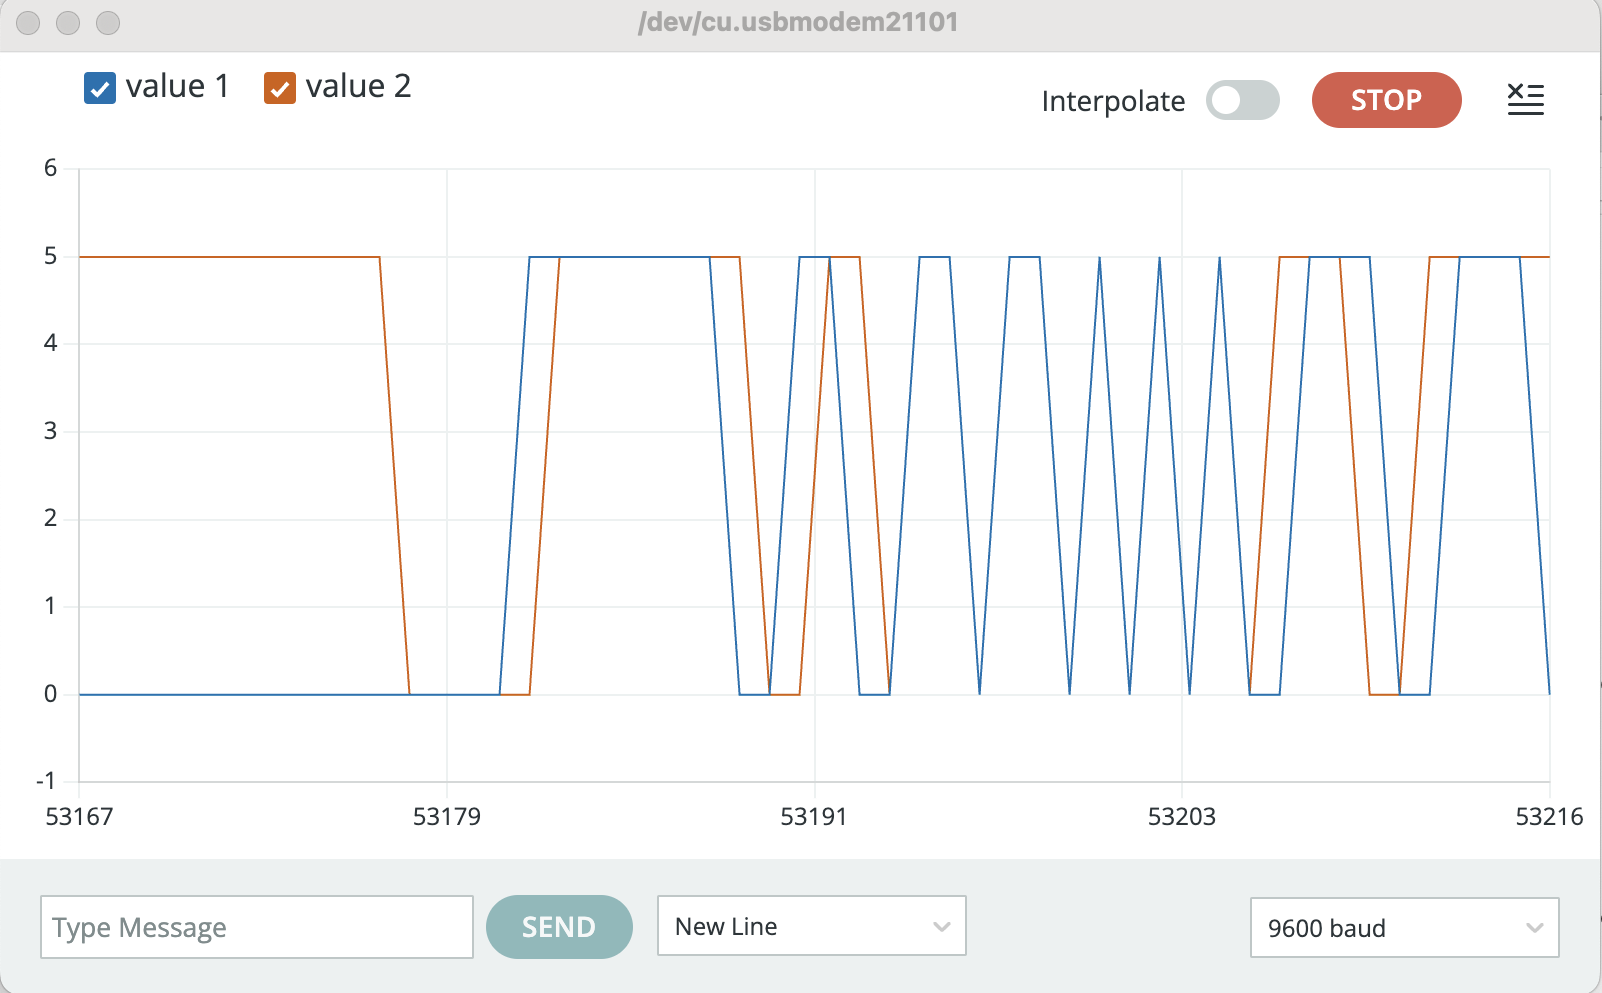
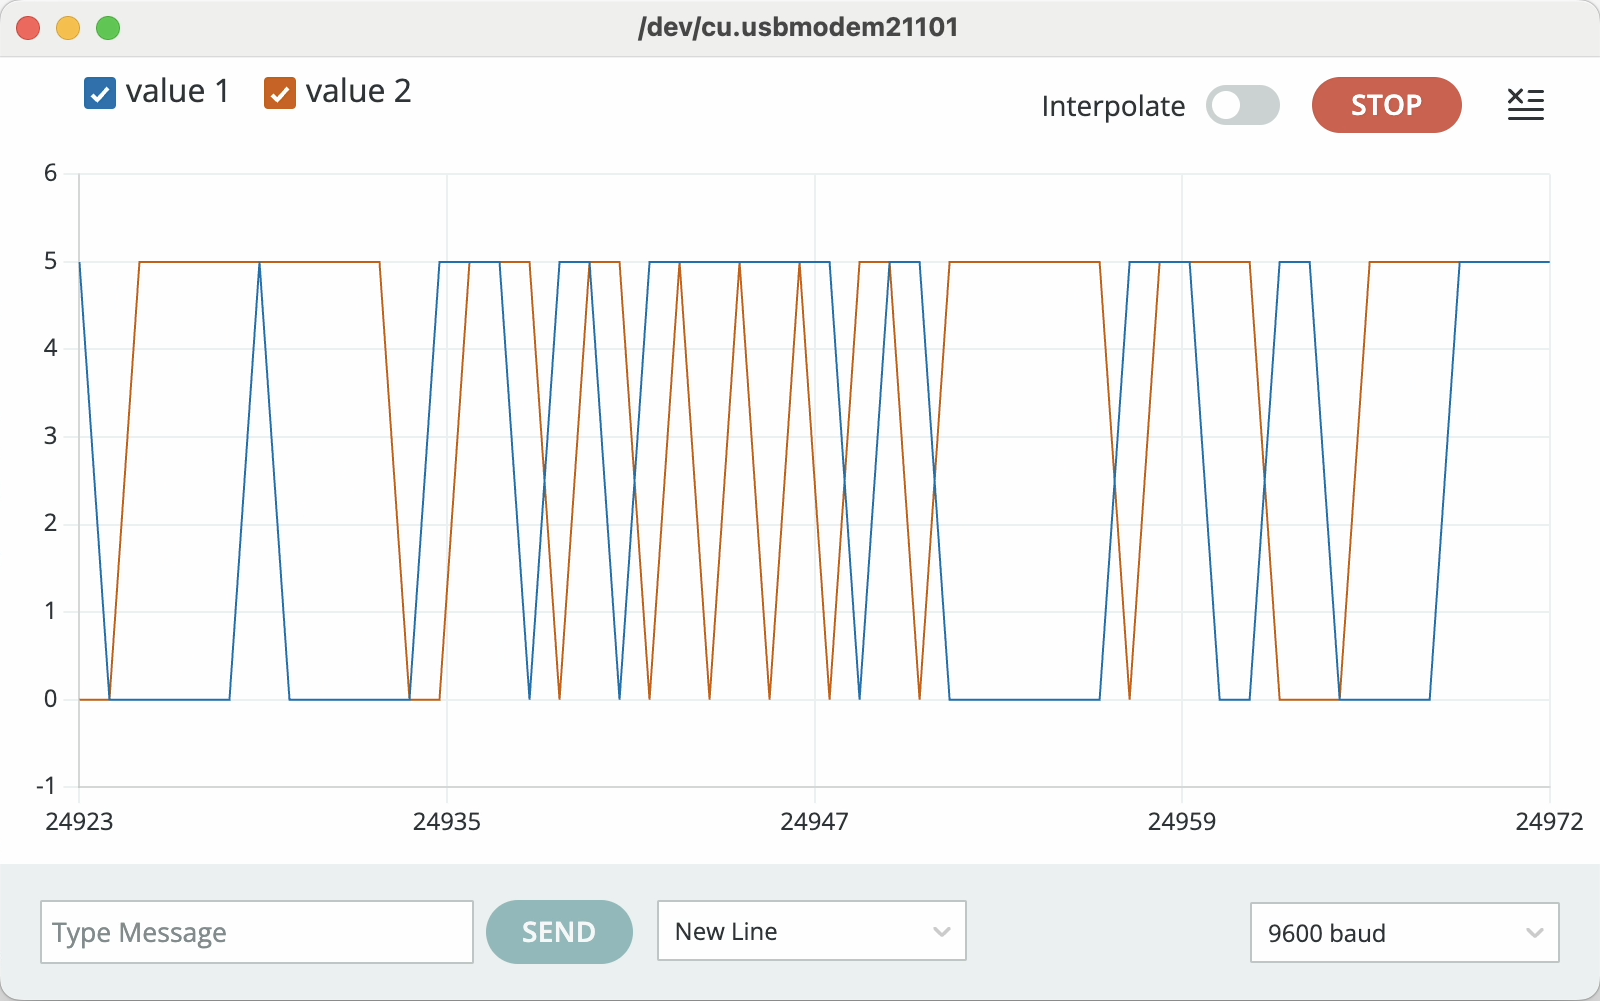
add the robot's rviz video

diff --git a/_posts/2025-04-08-SecurityRobot-MotorEncoder.md b/_posts/2025-04-08-SecurityRobot-MotorEncoder.md
@@ -1,6 +1,6 @@
 ---
 layout: post
-title: "Enhance DC Motors with Motor Encoders"
+title: "Enhance DC Motors using Motor Encoders"
 date: 2025-04-08 10:27:08 -0600
 categories: Security_Robot
 ---
@@ -8,13 +8,17 @@ categories: Security_Robot
 [RPLidar in ROS 2 Docker on Raspberry Pi]: {% link _posts/2025-02-08-SecurityRobot-RPLidar.md %}
 [ROS 2 Control, Robot Control the Right Way]: {% link _posts/2025-02-22-SecurityRobot-Ros2_control.md %}
 
-In the ROS (Robot Operating System) ecosystem, a motor encoder plays a crucial role in enabling feedback control and odometry estimation for mobile robots. In this article, I will demonstrate how to upgrade standard DC motors with motor encoders. 
+In the ROS (Robot Operating System) ecosystem, a motor encoder plays a crucial role in enabling feedback control and odometry estimation for mobile robots. I will show you how to enhance standard DC motors using motor encoders.
+
+<iframe width="800" height="468"
+src="https://www.youtube.com/embed/NX-1zldg81s?autoplay=1&mute=0">
+</iframe>
 
 ## What is a Motor Encoder
 
 A motor encoder is a sensor attached to a motor shaft that measures the rotation of the shaft. It converts mechanical motion into digital signals that a controller can interpret to manage the motor's speed. 
 
-Recall from my [ROS 2 Control, Robot Control the Right Way] blog that I mentioned using motor encoders and ros2_control for a closed-loop robot system. In the following component diagram, the motor encoder contributes to those circled in red. 
+Recall from my blog "[ROS 2 Control, Robot Control the Right Way]" that I briefly touched on using motor encoders and ros2_control for a closed-loop robot system. In the following component diagram, the motor encoder contributes to the elements circled in red.
 
 <a href="/assets/motor_encoder/ros2_control.drawio.png" target="_blank">
   <img src="/assets/motor_encoder/ros2_control.drawio.png" />
@@ -23,7 +27,7 @@ Recall from my [ROS 2 Control, Robot Control the Right Way] blog that I mentione
 ### The Purpose of Motor Encoder in ROS
 #### Odometry
 
-In robotics, odometry (or odom for short) refers to the method of estimating a robot’s position and orientation over time based on  the sensor data from wheel encoders. In ROS, odometry is published as messages on the /odom topic. Specifically, encoders are used to track how far each wheel has turned, and the ROS nodes utilize this data to estimate:
+In robotics, odometry (or odom for short) refers to the method of estimating a robot’s position and orientation over time based on sensor data from wheel encoders. In ROS, odometry is published as messages on the /odom topic. Specifically, encoders track how far each wheel has turned, and the ROS nodes utilize this data to estimate:
 
 * Distance traveled
 * Robot’s pose (position and orientation)
@@ -39,14 +43,14 @@ The encoder data is part of the closed-loop system that adjusts motor commands i
 
 #### Joint State Publishing
 
-The readings from the encoders aid in reporting the position, angle, and velocity of the left and right wheel joints through the /joint_states topic, enabling users to visualize the robot in tools such as RViz. This is what my robot looks like in RViz. 
+The readings from the encoders assist in reporting the position, angle, and velocity of the left and right wheel joints through the /joint_states topic, allowing users to visualize the robot in tools like RViz. This is how my robot appears in RViz.
 
 <a href="/assets/motor_encoder/rviz.png" target="_blank">
   <img src="/assets/motor_encoder/rviz.png" />
 </a>
 
 ## Upgrade DC Motors using Motor Encoders
-I have a few [OSEPP DC motors](https://osepp.com/accessories/motors/143-ls-00041-high-torque-electric-motor-6v) that I used for various DIY robotic projects. They are high-quality motors that use durable materials, providing high torque and a long shaft. They work well with my robot's mechanical parts. 
+I have several [OSEPP DC motors](https://osepp.com/accessories/motors/143-ls-00041-high-torque-electric-motor-6v) that I used for different DIY robotics projects. These motors are high-quality, made from durable materials, and they provide high torque and a long motor shaft. They work well with the mechanical components of my robot.
 
 <a href="/assets/IMG_2910.jpeg" target="_blank">
   <img src="/assets/IMG_2910.jpeg" width="350" />
@@ -55,18 +59,18 @@ I have a few [OSEPP DC motors](https://osepp.com/accessories/motors/143-ls-00041
   <img src="/assets/motor_encoder/IMG_2990.jpeg" width="350" />
 </a>
 
-I considered using a new pair of DC motors that have built-in encoders. This is supposed to simplify the setup. However, the ones I found on Amazon don't have a long enough shaft to work with my robotic parts. Additionally, their build quality is not ideal. 
+I considered using a new pair of DC motors with built-in encoders to simplify the setup. However, the ones I found on Amazon do not have a long enough motor shaft to work with my robotic parts. Additionally, their build quality is not ideal.
 
 <a href="/assets/motor_encoder/IMG_3065.jpeg" target="_blank">
   <img src="/assets/motor_encoder/IMG_3065.jpeg" width="600" />
 </a>
 
-After some consideration, I decided to reuse my existing DC motors and enhance it with the [OSEPP Motor Encoder](https://osepp.com/accessories/motors/114-motor-encoder). The motor encoder comes with a datasheet and is thoroughly documented in the [Assembly Instruction](https://osepp.com/downloads/pdf/Encoder%20Assembly.pdf). Additionally, I appreciate the build quality of OSEPP products.
+After careful consideration, I chose to reuse my existing DC motors and enhance them with the [OSEPP Motor Encoder](https://osepp.com/accessories/motors/114-motor-encoder). This motor encoder comes with a datasheet and detailed [assembly instruction](https://osepp.com/downloads/pdf/Encoder%20Assembly.pdf). Furthermore, I appreciate the build quality of OSEPP products.
 
 ### Quadrature Encoders
-The OSEPP motor encoder is a quadrature encoder, which is a type of rotary encoder. It provides two output signals, Channel A and Channel B, that are 90° out of phase. This allows the system to determine:
+The OSEPP motor encoder is a quadrature encoder, a type of rotary encoder. It provides two output signals, Channel A and Channel B, that are 90° out of phase. This allows the system to determine:
 1.	Speed (the rate at which the motor is rotating).
-2.	Direction (whether it is rotating clockwise or counterclockwise).
+2.	Direction (If A leads B → clockwise. If B leads A → counterclockwise).
 
 <a href="/assets/motor_encoder/Assembly_Guide_Magnet.jpeg" target="_blank">
   <img src="/assets/motor_encoder/Assembly_Guide_Magnet.jpeg" width="350" />
@@ -76,9 +80,9 @@ The OSEPP motor encoder is a quadrature encoder, which is a type of rotary encod
 </a>
 
 ### Test the Encoder Installation
-After following the assembly instructions, I installed the encoder mount next to the motor's magnet. I wired the encoders to the Arduino, and now it is time to test the encoders' readings. 
+After following the assembly instructions, I installed the encoder mount next to the motor's magnet. I wired the encoders to the Arduino, and now it's time to test the encoders' readings. 
 
-I used the following Arduino program to check the readings, kudos to [Curio Res](https://curiores.com/positioncontrol), where I downloaded the code.
+I used the following Arduino program to check the readings.
 
 ```
 #define ENCA A4 // Yellow 2, A4
@@ -100,7 +104,7 @@ void loop() {
 }
 ```
 
-If everything is installed and wired correctly, we should see "value 1" and "value 2" interlacing in the Serial Plotter when I manually rotate the wheel. 
+If everything is installed and wired correctly, we should see "value A" and "value B" interlacing in the Serial Plotter when I manually rotate the wheel. 
 
 <a href="/assets/motor_encoder/reading.png" target="_blank">
   <img src="/assets/motor_encoder/reading.png" width="600" />
@@ -108,14 +112,14 @@ If everything is installed and wired correctly, we should see "value 1" and "val
 
 If the plot appears as a flat line or shows only one value oscillating while rotating the wheel, the issue may be related to the wire connection or the positioning of the encoder. 
 
-In my case, the issue was that the encoder mount was too far from the magnet. Additionally, the two channels were angled relative to the magnet. The A3144 sensor’s Channels A and B must be close to and parallel to the magnet’s side to detect the magnetic field while the motor shaft spins. Here is a picture of a properly installed motor encoder mount.
+In my case, the problem was that the encoder mount was too far from the magnet. Additionally, the two channels were angled relative to the magnet. The A3144 sensor’s Channels A and B must be close to and parallel to the magnet’s side to detect the magnetic field while the motor shaft spins. Here is a picture of a properly installed motor encoder mount.
 
 <a href="/assets/motor_encoder/IMG_3068.jpeg" target="_blank">
   <img src="/assets/motor_encoder/IMG_3068.jpeg" width="600" />
 </a>
 
 ### Encoder Count Per Revolution
-To use the encoder in ROS2 Control, an important parameter is enc_counts_per_rev. This refers to the encoder counts generated for one full revolution of the wheel or motor shaft. 
+To use the encoder in ROS2 Control, an important parameter is enc_counts_per_rev, which refers to the encoder counts generated for one full revolution of the wheel or motor shaft. 
 
 This parameter is defined in "ros2_control.xacro" and is used in the "read" and "write" functions of the hardware interface "DiffDriveArduinoHardware" to calculate the velocity command sent to the motor, as well as to compute the robot's current pose and velocity.  
 
@@ -134,7 +138,7 @@ Here is the "ros2_control.xacro":
 
 #### Compute the enc_counts_per_rev
 
-To determine the enc_counts_per_rev, I wrote an Arduino program that outputs the count after I manually rotate the motor shaft for one full revolution.  I perform this rotation several times and calculate the average count, which provides the "enc_counts_per_rev" of the motor.  
+To determine the enc_counts_per_rev, I wrote an Arduino program that outputs the count after I manually rotate the motor shaft for one full revolution.  I perform this rotation several times and calculate the average count, which gives me the enc_counts_per_rev of the motor.  
 
 ```
 #define ENC_A 2  // Encoder Channel A (Digital Pin 2)
@@ -181,6 +185,18 @@ void loop() {
 }
 ```
 
-## Show Time
+## Let robot dance in RViz
+As mentioned earlier, one application of motor encoders is to help users visualize the robot using tools like RViz. Therefore, I created this robot dance clip. Cheers! :D
 
-To be continued ...
+```
+# start the robot on Raspberry Pi
+ros2 launch my_bot robot.launch.py
+
+# view the robot in rviz on the linux dev machine
+rviz2 -d ~/dev/dev_ws/src/my_bot/config/view_bot.rviz
+```
+
+<iframe width="800" height="468"
+src="https://www.youtube.com/embed/NX-1zldg81s?autoplay=1&mute=0">
+</iframe>
+
